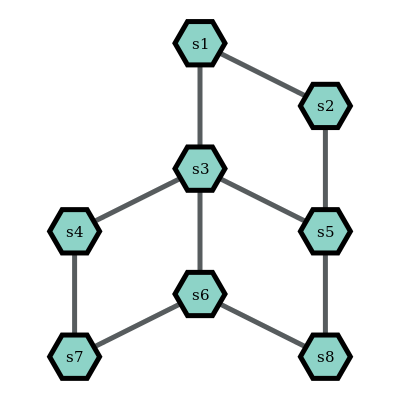
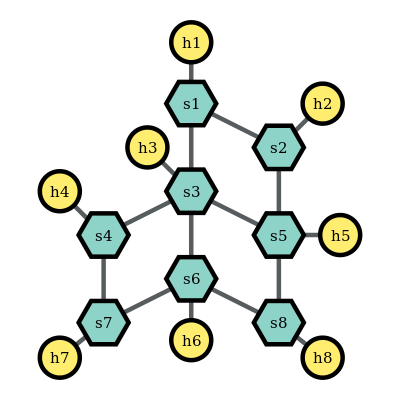
added hosts

Changed region(s): [[0.09, 0.03, 0.93, 0.96]]

diff --git a/network_graph/illustrate_frr.py b/network_graph/illustrate_frr.py
@@ -19,7 +19,6 @@ for switch in network['switches']:
     vprop_size[v_switch] = 50
     vprop_shape[v_switch] = "hexagon"
     for host in switch['hosts']:
-        break;
         v_host = g.add_vertex()
         e_link = g.add_edge(v_switch, v_host)
         vprop_text[v_host] = host['name']
@@ -44,6 +43,17 @@ pos[name_to_vertex['s5']] = [3, 1.5]
 pos[name_to_vertex['s6']] = [2, 2]
 pos[name_to_vertex['s7']] = [1, 2.5]
 pos[name_to_vertex['s8']] = [3, 2.5]
+
+pos[name_to_vertex['h1']] = [2, -0.7]
+pos[name_to_vertex['h2']] = [3.5, 0]
+pos[name_to_vertex['h3']] = [1.5, 0.5]
+pos[name_to_vertex['h4']] = [0.5, 1]
+pos[name_to_vertex['h5']] = [3.7, 1.5]
+pos[name_to_vertex['h6']] = [2, 2.7]
+pos[name_to_vertex['h7']] = [0.5, 2.9]
+pos[name_to_vertex['h8']] = [3.5, 2.9]
+
+
 
 graph_draw( g,
             pos,
